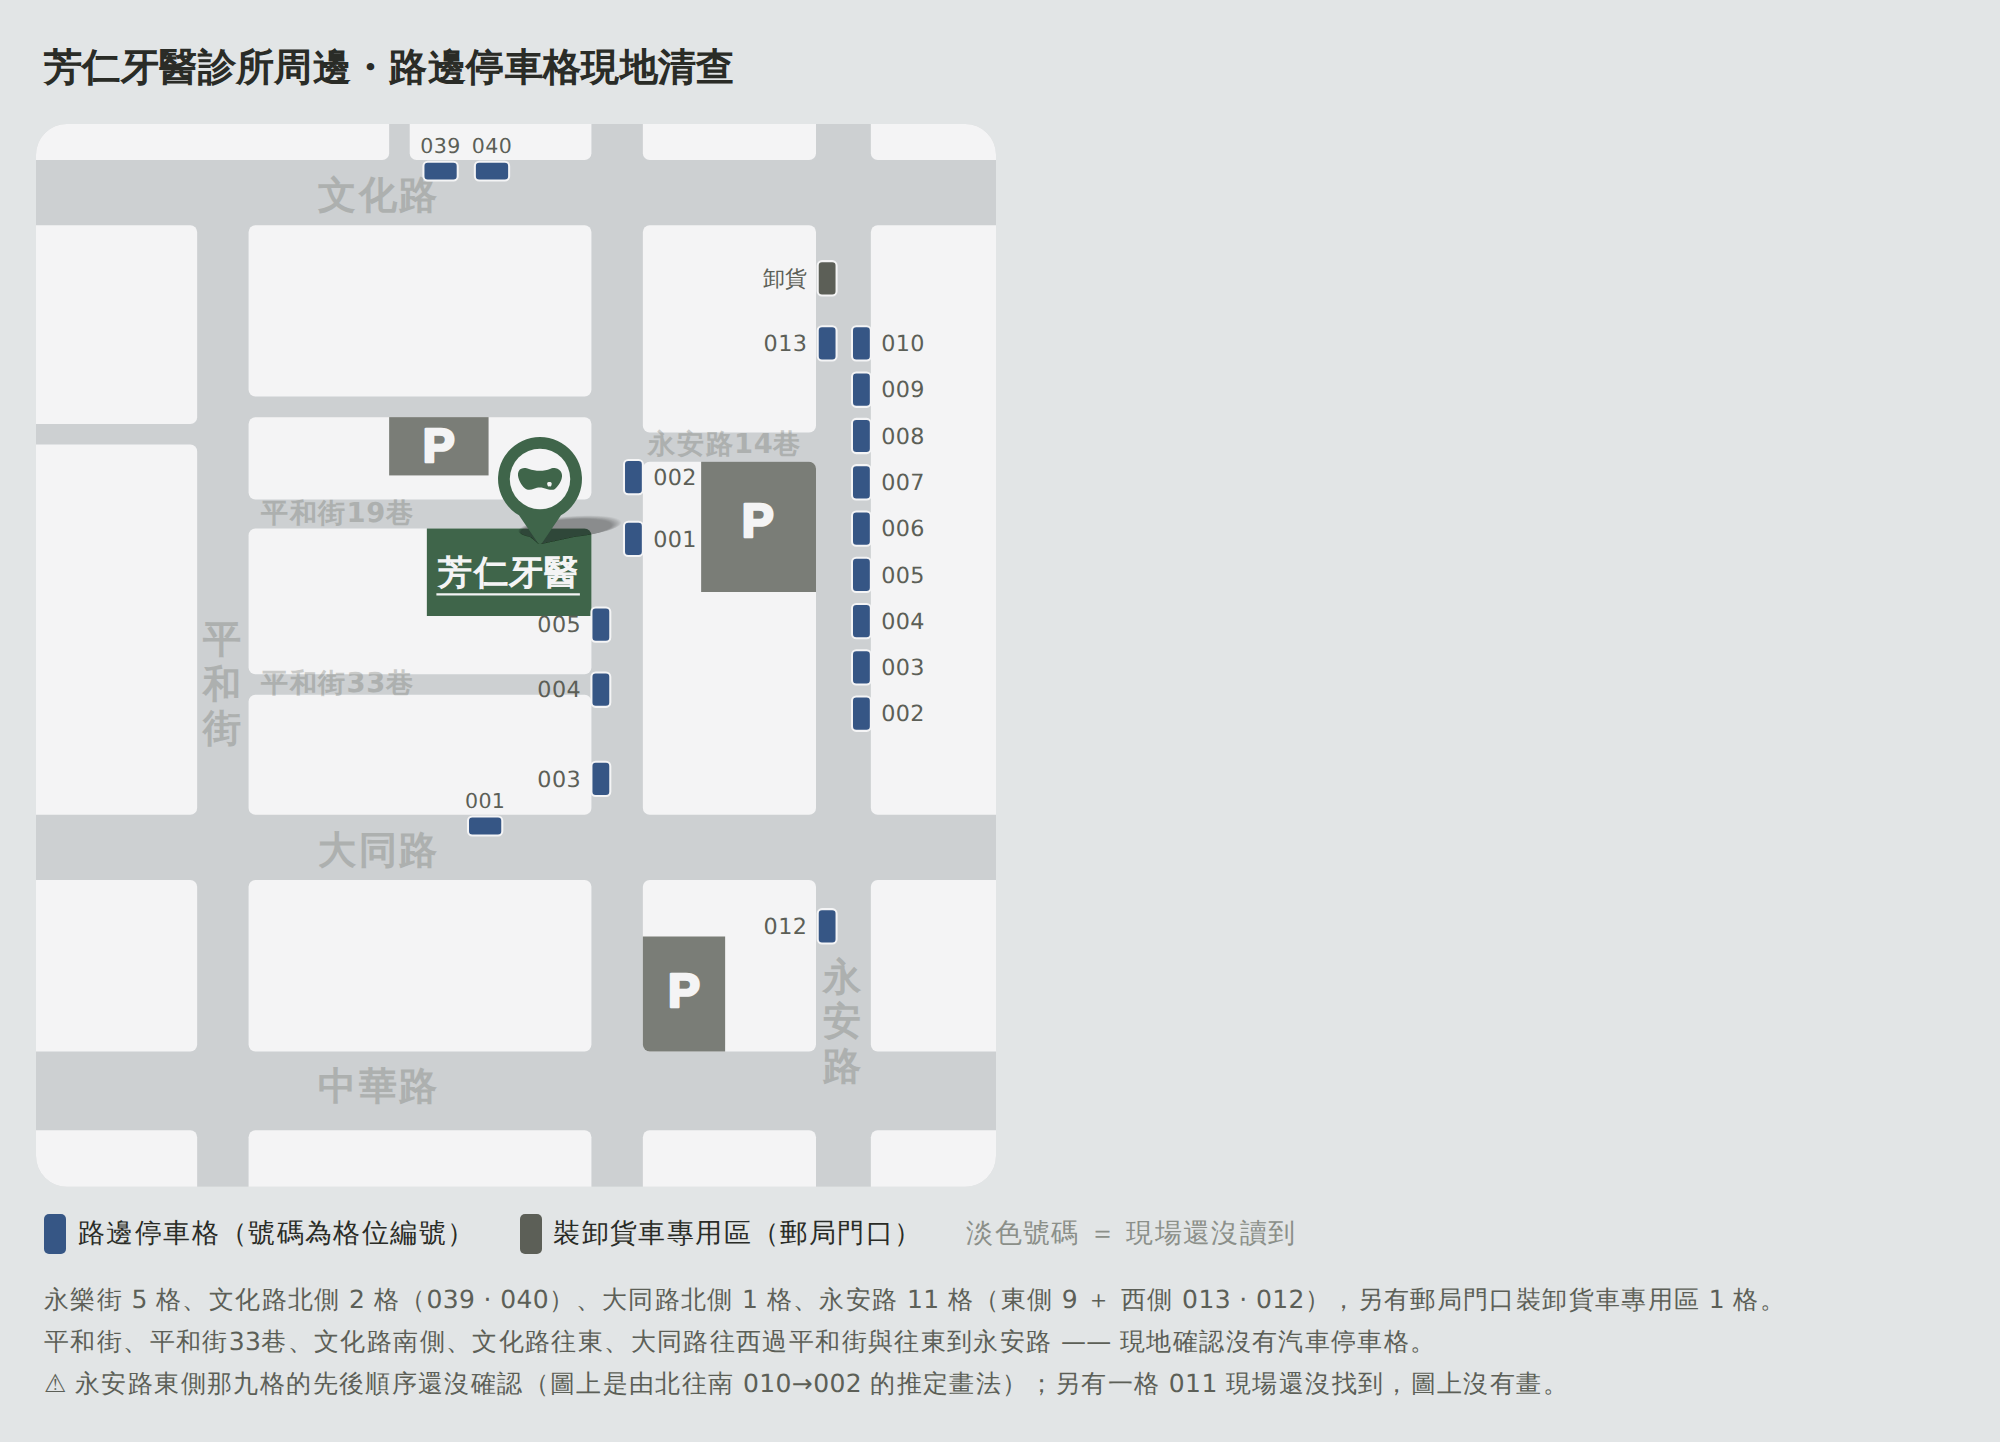
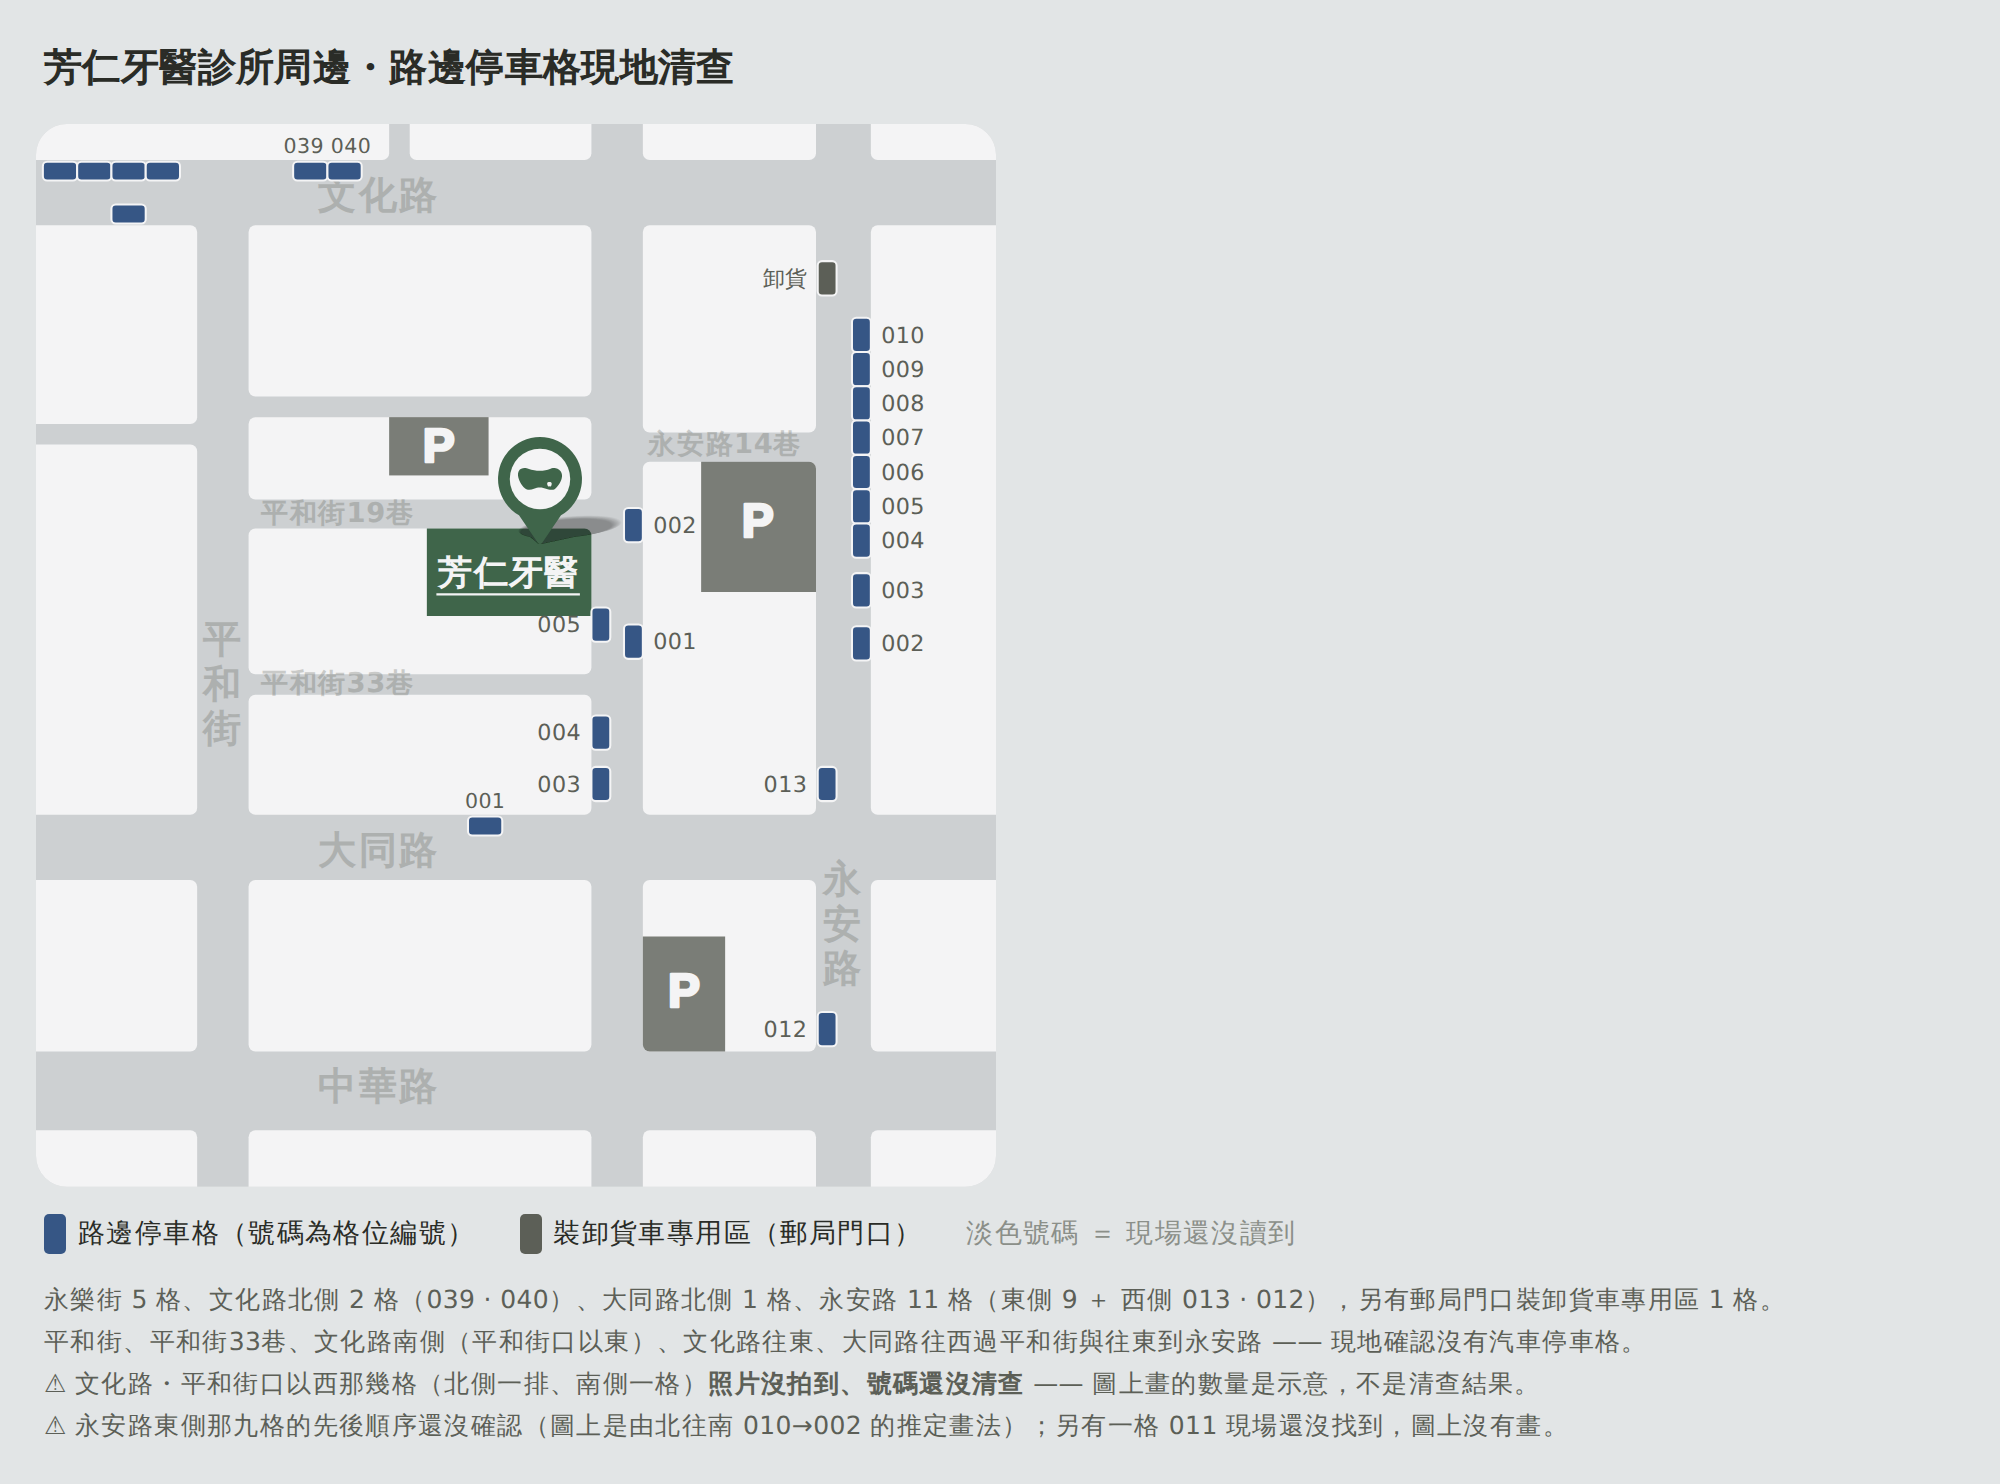
停車格地圖：照使用者的六點指正重排，並補上文化路平和街口以西那一段
1 039／040 往西挪到「小巷與平和街口之間」（原本照 040 的地標畫在小巷東邊，錯的）
2 永樂街 003／004 同一街區（33巷～大同路），005 移到 33巷與診所之間
3 永樂街 001／002 整組往南，002 接原本 001 的位置、001 接原本 005 的位置再往南
4 永安路 010→004 連續，004 的南邊界對齊合廷停車場入口（y253）；003／002 各隔開一點
5 永安路 013 移到幾乎在大同路口，012 移到原本街名「安」字的位置（街名因此再往北挪）
6 新增文化路・平和街口以西：北側一整排、南側 1 格（口述、照片沒拍到，圖上是示意數量）

⚠ 那一段沒有號碼，所以守門改成只比對「有號碼」的格子（負向測過仍會 throw）。
⚠ 文化路南側原本那條「0 格」講的是平和街口以東，JSON 與 README 都已寫清楚。

Claude-Session: https://claude.ai/code/session_01C2qoCiBQxfNKJmWYStjoDs

diff --git a/drafts/door-notice/README.md b/drafts/door-notice/README.md
@@ -115,8 +115,13 @@ node drafts/door-notice/parking-map.mjs
 - ⚠ 2026-09-15 站上那張地圖**補了一條沒畫到的小巷**（文化路上，平和街口與元大銀行之間，
   只往北通；同一輪平和街改成不穿過文化路、並補上 33 巷的街名）。這張圖已經跟著換了 ——
   **底圖是開 `index.html` 本人截的，所以站上改地圖這裡自動跟上**。
-  039／040 的地標是「靠元大銀行方向」，所以畫在那條小巷的**東邊**；
-  ⚠ 那兩格和小巷的前後關係還沒現地確認過。
+  ⚠⚠ **039／040 在那條小巷與平和街口之間（＝小巷以西）** —— 使用者 2026-09-15 現地指正。
+  在那之前我照 040 的地標「靠元大銀行方向」把兩格畫在小巷**東邊**，**那是錯的**，
+  日後看到舊圖不要拿它回頭訂正。兩格自己的東西順序沒有變（040 在 039 東邊）。
+- ⚠⚠ **圖上有一排沒有號碼的格子**（文化路・平和街口以西，北側一排、南側一格）——
+  那是使用者口述的、**照片沒拍到、號碼還沒清查**，畫的數量是示意（他指定
+  「在簡易地圖的範圍內呈現足夠畫進去的數量就好」）。守門**只比對有號碼的格子**，
+  所以那一排兩邊都跳過；日後走一趟把格號讀回來補進 JSON，圖會跟著對。
 
 ・⚠⚠ **網站地圖（診所簡易地圖，文化路～中華路 × 平和街～永安路）範圍內的永安路
 　有 002～010（東側）與 013、012（西側）** —— **只有 011 在範圍外**。
@@ -134,7 +139,13 @@ node drafts/door-notice/parking-map.mjs
 南側（⑥）與往東到永安路那一段（⑦，兩側）都沒有。
 
 **沒有汽車停車格的路段**（都是使用者現地確認）：平和街33巷整條（⑬）、
-文化路南側（⑧）、文化路兩側往東到永安路（⑩）、平和街兩側（⑫）、大同路 ⑥⑦。
+文化路南側（⑧，**指平和街口以東那一段**）、文化路兩側往東到永安路（⑩）、
+平和街兩側（⑫）、大同路 ⑥⑦。
+
+**⚠ 文化路・平和街口以西（還沒清查）**：使用者 2026-09-15 口述 ——
+**北側有一整排連續的停車格、南側 1 格**，都在網站地圖的範圍內，**但照片沒拍到**，
+格數與號碼都不知道。⚠ 它和上面那個「文化路南側 0 格」不衝突：那一條講的是
+**平和街口以東**（永樂街路口往西約 100 m）那一段。
 
 ### ✅ ①～⑬ 段全部走完了（2026-09-15）
 
@@ -146,7 +157,8 @@ node drafts/door-notice/parking-map.mjs
 | **永樂街** | **5** | 001～005，⚠ 收不收費還沒有答案 |
 | **文化路　北側** | **2** | 039、040，**有收費標誌** |
 | **大同路　北側** | **1** | 001 |
-| 文化路南側・文化路往東・平和街・平和街33巷・大同路南側與往東 | 0 | — |
+| **文化路　平和街口以西** | ⚠ 未知 | 北側一整排＋南側 1 格，**使用者口述、照片沒拍到、號碼還沒清查** |
+| 文化路南側（平和街口以東）・文化路往東・平和街・平和街33巷・大同路南側與往東 | 0 | — |
 
 ⚠⚠ **結論：診所周邊的路邊停車位少得可以一眼數完，而且大半集中在永安路。**
 門口告示把「周邊三處停車場」擺在前面是對的。
